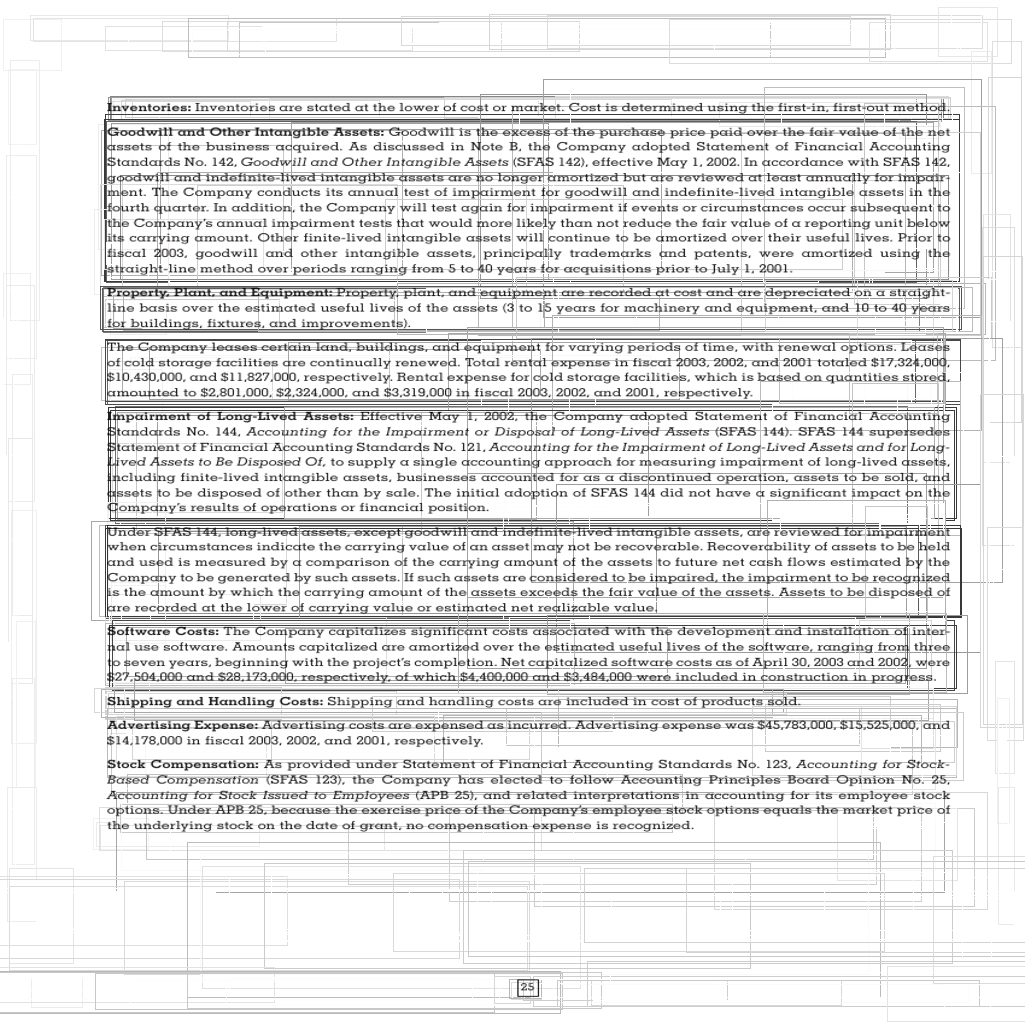
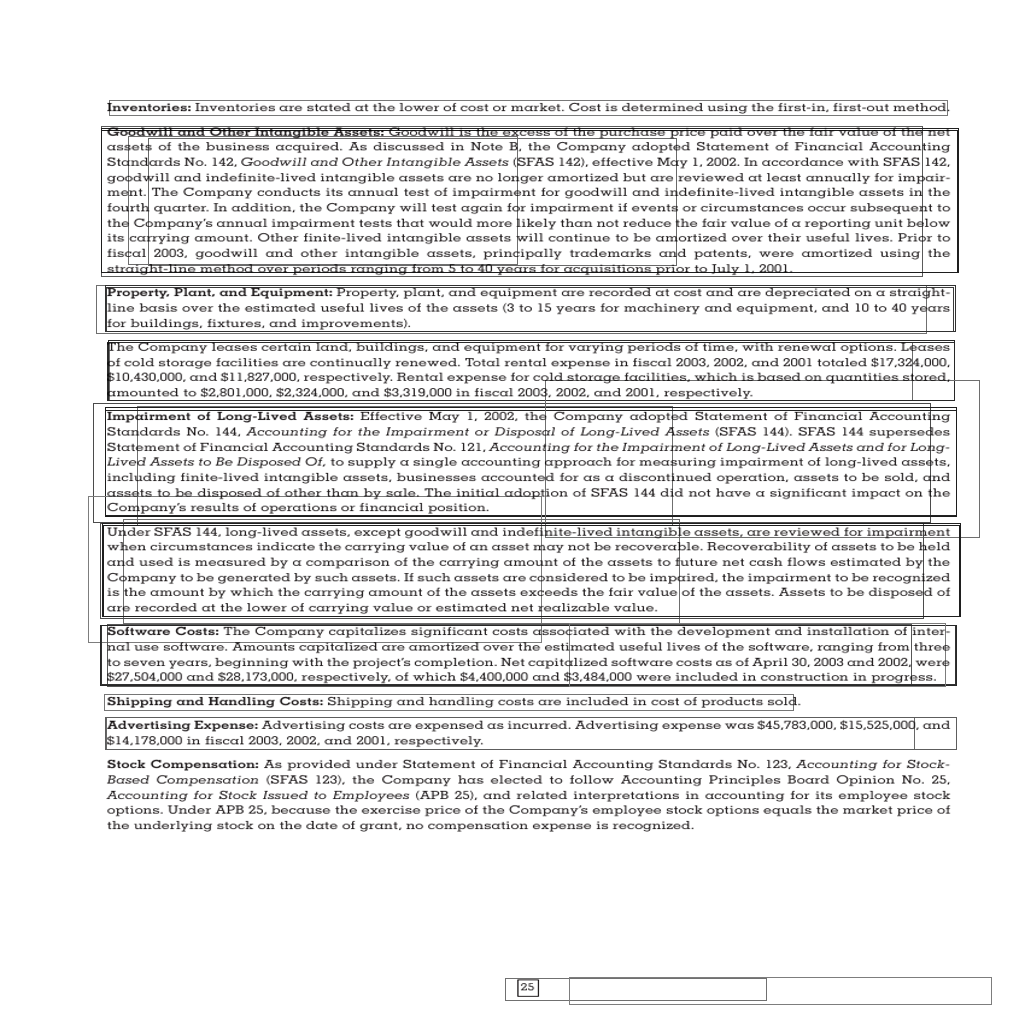
test

diff --git a/pracaInzynierska/segmenty/wersja1highres/inference.py b/pracaInzynierska/segmenty/wersja1highres/inference.py
@@ -5,6 +5,7 @@ import torchvision.transforms.functional as functional
 import os 
 from consts import *
 
+threshold = 0.5
 
 device = torch.device("cuda" if torch.cuda.is_available() else "cpu")
 
@@ -37,16 +38,17 @@ for img in imgs:
             for X in range(GRID):
                 for box in range(BOXES):
                     confidence = (torch.sigmoid(output[Y][X][box*5 + 4]))
-                    coord = (torch.sigmoid(output[Y][X][box*5:2+box*5]))
-                    size = (torch.sigmoid(output[Y][X][box*5+2:4+box*5]))
-                    x, y = ((X+coord[0])*SIZE/GRID*xScale, (Y+coord[1])*SIZE/GRID*yScale)
-                    w, h = (size[0]*SIZE*xScale, size[1]*SIZE*yScale)
-                    x -= w/2
-                    y -= h/2
-                    gray = int(255 * confidence.item())
-                    draw.line((x, y, x+w, y), fill=(0,0,0,gray))
-                    draw.line((x+w, y, x+w, y+h), fill=(0,0,0,gray))
-                    draw.line((x+w, y+h, x, y+h), fill=(0,0,0,gray))
-                    draw.line((x, y+h, x, y), fill=(0,0,0,gray))
+                    if confidence > threshold:
+                        coord = (torch.sigmoid(output[Y][X][box*5:2+box*5]))
+                        size = (torch.sigmoid(output[Y][X][box*5+2:4+box*5]))
+                        x, y = ((X+coord[0])*SIZE/GRID*xScale, (Y+coord[1])*SIZE/GRID*yScale)
+                        w, h = (size[0]*SIZE*xScale, size[1]*SIZE*yScale)
+                        x -= w/2
+                        y -= h/2
+                        gray = int(255 * confidence.item())
+                        draw.line((x, y, x+w, y), fill=(0,0,0,gray))
+                        draw.line((x+w, y, x+w, y+h), fill=(0,0,0,gray))
+                        draw.line((x+w, y+h, x, y+h), fill=(0,0,0,gray))
+                        draw.line((x, y+h, x, y), fill=(0,0,0,gray))
         im = Image.alpha_composite(im, overlay)
         im.save(f"../results/result-{img}", "PNG")
